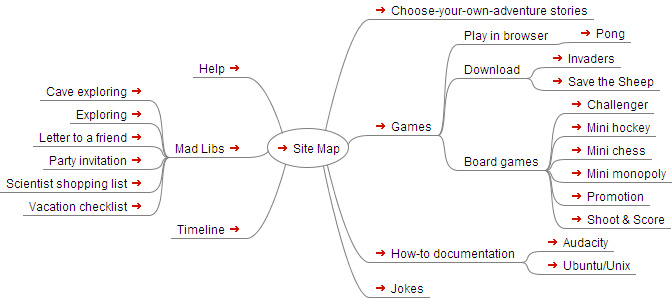
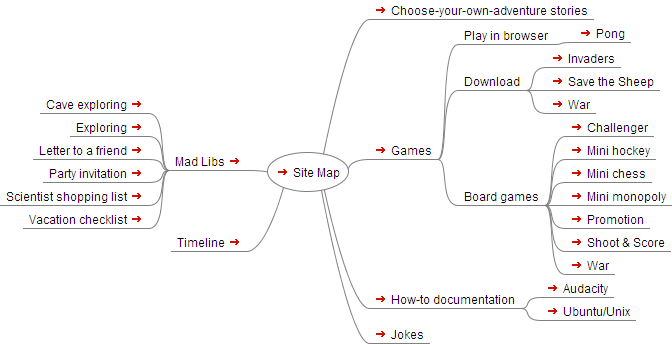
Updated the site map

diff --git a/map/map.html b/map/map.html
@@ -1,125 +1,43 @@
-<?xml version="1.0" encoding="UTF-8"?>
-<!DOCTYPE html>
-<html xmlns="http://www.w3.org/1999/xhtml">
-<meta content="text/html; charset=UTF-8" http-equiv="Content-Type" />
-<!--This file has been created with freemind2html.xsl-->
-<head>
-    <title>Site Map</title>
-    <link rel="stylesheet" href="../style-hacker.css">
-    <link rel="stylesheet" href="map.html_files//freemind2html.css" type="text/css" />
-    <meta content="FreeMind-XSL Stylesheet (see: http://freemind-xsl.dev.slash-me.net/ for details)" name="generator" />
-    <script src="map.html_files//freemind2html.js">
-    </script>
-    <script src="../translate.js"></script>
-    <script src="https://translate.google.com/translate_a/element.js?cb=googleTranslateElementInit"></script>
-</head>
+<?xml version="1.0" encoding="UTF-8"?><!DOCTYPE html PUBLIC "-//W3C//DTD XHTML 1.1//EN" "http://www.w3.org/TR/xhtml11/DTD/xhtml11.dtd">
+<html xmlns="http://www.w3.org/1999/xhtml"><meta content="text/html; charset=UTF-8" http-equiv="Content-Type" /><!--This file has been created with freemind2html.xsl--><head><title>Site Map</title><link rel="stylesheet" href="map.html_files//freemind2html.css" type="text/css" />
+<link rel="stylesheet" href="../style-hacker.css" type="text/css" />
+<meta content="FreeMind-XSL Stylesheet (see: http://freemind-xsl.dev.slash-me.net/ for details)" name="generator" />
+<script src="../translate.js"></script>
+<script src="https://translate.google.com/translate_a/element.js?cb=googleTranslateElementInit"></script>
+<script type="text/javascript" src="map.html_files//freemind2html.js">
+	</script><script type="text/javascript">
 
-<body>
-    <div class="tooltip">
-        <h1><a href="../index.htm">Site Map</a></h1>
-        <span class="tooltiptext">Click to return to the home page</span>
-    </div>
-    <p>To click a link in the site map, click the link on the image, then click the matching link in the tree below (usually it's at the top)</p>
-    <div style="width:96%;  padding:2%;  margin-bottom:10px;  border: 0px;  text-align:center;  vertical-align:center;"><img src="map.html_files//image.png" style="margin-bottom:10px; &#9;border: 0px; &#9;text-align:center; &#9;vertical-align:center;" alt="Imagemap" usemap="#fm_imagemap" /></div><map id="fm_imagemap" name="fm_imagemap"><area shape="rect" href="#FMID_709576777FM" alt="Site Map" title="Site Map" coords="267,128,349,168" /><area shape="rect" href="#FMID_1923632942FM" alt="Choose-your-own-adventure stories" title="Choose-your-own-adventure stories" coords="369,0,594,20" /><area shape="rect" href="#FMID_982641649FM" alt="Games" title="Games" coords="369,116,438,136" /><area shape="rect" href="#FMID_1088107480FM" alt="Play in browser" title="Play in browser" coords="458,25,554,45" /><area shape="rect" href="#FMID_1531076854FM" alt="Pong" title="Pong" coords="574,23,631,43" /><area shape="rect" href="#FMID_1806537273FM" alt="Download" title="Download" coords="458,59,526,79" /><area shape="rect" href="#FMID_816045599FM" alt="Invaders" title="Invaders" coords="546,48,621,68" /><area shape="rect" href="#FMID_282341165FM" alt="Save the Sheep" title="Save the Sheep" coords="546,71,660,91" /><area shape="rect" href="#FMID_299578328FM" alt="Board games" title="Board games" coords="458,151,545,171" /><area shape="rect" href="#FMID_811647075FM" alt="Challenger" title="Challenger" coords="565,94,654,114" /><area shape="rect" href="#FMID_1144614612FM" alt="Mini hockey" title="Mini hockey" coords="565,117,656,137" /><area shape="rect" href="#FMID_1428526160FM" alt="Mini chess" title="Mini chess" coords="565,140,652,160" /><area shape="rect" href="#FMID_304733964FM" alt="Mini monopoly" title="Mini monopoly" coords="565,163,672,183" /><area shape="rect" href="#FMID_646294776FM" alt="Promotion" title="Promotion" coords="565,186,650,206" /><area shape="rect" href="#FMID_561947588FM" alt="Shoot &amp; Score" title="Shoot &amp; Score" coords="565,209,671,229" /><area shape="rect" href="#FMID_1587511800FM" alt="Help" title="Help" coords="193,58,247,78" /><area shape="rect" href="#FMID_75258166FM" alt="How-to documentation" title="How-to documentation" coords="369,243,521,263" /><area shape="rect" href="#FMID_74909711FM" alt="Audacity" title="Audacity" coords="541,232,614,252" /><area shape="rect" href="#FMID_745300240FM" alt="Ubuntu/Unix" title="Ubuntu/Unix" coords="541,255,636,275" /><area shape="rect" href="#FMID_1195407703FM" alt="Mad Libs" title="Mad Libs" coords="169,138,247,158" /><area shape="rect" href="#FMID_811489545FM" alt="Cave exploring" title="Cave exploring" coords="40,81,149,101" /><area shape="rect" href="#FMID_1993410114FM" alt="Exploring" title="Exploring" coords="70,104,149,124" /><area shape="rect" href="#FMID_777216135FM" alt="Letter to a friend" title="Letter to a friend" coords="33,127,149,147" /><area shape="rect" href="#FMID_742344066FM" alt="Party invitation" title="Party invitation" coords="43,150,149,170" /><area shape="rect" href="#FMID_1593980568FM" alt="Scientist shopping list" title="Scientist shopping list" coords="0,173,149,193" /><area shape="rect" href="#FMID_1985541377FM" alt="Vacation checklist" title="Vacation checklist" coords="23,196,149,216" /><area shape="rect" href="#FMID_319941069FM" alt="Timeline" title="Timeline" coords="171,219,247,239" /><area shape="rect" href="#FMID_780050815FM" alt="Jokes" title="Jokes" coords="369,278,430,298" /></map>
-    <div class="node"><img src="map.html_files//hide.png" class="hideshow" alt="hide" onClick="toggle(&quot;N10007&quot;)" id="imgN10007" /><a id="FMID_709576777FM" />
-        <div class="nodecontent"><a href="../index.htm">Site Map</a> <a href="../index.htm"><img src="map.html_files//ilink.png" alt="User Link" style="border-width:0" /></a></div>
-        <div class="content" id="N10007">
-            <div class="node"><img src="map.html_files//leaf.png" class="hideshow" alt="leaf" /><a id="FMID_1587511800FM" />
-                <div class="nodecontent"><a href="../help/index.htm">Help</a> <a href="../help/index.htm"><img src="map.html_files//ilink.png" alt="User Link" style="border-width:0" /></a></div>
-            </div>
-            <div class="node"><img src="map.html_files//hide.png" class="hideshow" alt="hide" onClick="toggle(&quot;N10092&quot;)" id="imgN10092" /><a id="FMID_1195407703FM" />
-                <div class="nodecontent"><a href="../madlib/index.htm">Mad Libs</a> <a href="../madlib/index.htm"><img src="map.html_files//ilink.png" alt="User Link" style="border-width:0" /></a></div>
-                <div class="content" id="N10092">
-                    <div class="node"><img src="map.html_files//leaf.png" class="hideshow" alt="leaf" /><a id="FMID_811489545FM" />
-                        <div class="nodecontent"><a href="../madlib/madlib-stories/cave-story.htm">Cave exploring</a> <a href="../madlib/madlib-stories/cave-story.htm"><img src="map.html_files//ilink.png" alt="User Link" style="border-width:0" /></a></div>
-                    </div>
-                    <div class="node"><img src="map.html_files//leaf.png" class="hideshow" alt="leaf" /><a id="FMID_1993410114FM" />
-                        <div class="nodecontent"><a href="../madlib/madlib-stories/exploring.htm">Exploring</a> <a href="../madlib/madlib-stories/exploring.htm"><img src="map.html_files//ilink.png" alt="User Link" style="border-width:0" /></a></div>
-                    </div>
-                    <div class="node"><img src="map.html_files//leaf.png" class="hideshow" alt="leaf" /><a id="FMID_777216135FM" />
-                        <div class="nodecontent"><a href="../madlib/madlib-stories/letter-to-a-friend.htm">Letter to a friend</a> <a href="../madlib/madlib-stories/letter-to-a-friend.htm"><img src="map.html_files//ilink.png" alt="User Link" style="border-width:0" /></a></div>
-                    </div>
-                    <div class="node"><img src="map.html_files//leaf.png" class="hideshow" alt="leaf" /><a id="FMID_742344066FM" />
-                        <div class="nodecontent"><a href="../madlib/madlib-stories/party.htm">Party invitation</a> <a href="../madlib/madlib-stories/party.htm"><img src="map.html_files//ilink.png" alt="User Link" style="border-width:0" /></a></div>
-                    </div>
-                    <div class="node"><img src="map.html_files//leaf.png" class="hideshow" alt="leaf" /><a id="FMID_1593980568FM" />
-                        <div class="nodecontent"><a href="../madlib/madlib-stories/Scientist-Shopping-List.htm">Scientist shopping list</a> <a href="../madlib/madlib-stories/Scientist-Shopping-List.htm"><img src="map.html_files//ilink.png" alt="User Link" style="border-width:0" /></a></div>
-                    </div>
-                    <div class="node"><img src="map.html_files//leaf.png" class="hideshow" alt="leaf" /><a id="FMID_1985541377FM" />
-                        <div class="nodecontent"><a href="../madlib/madlib-stories/to-do-before-vacation.htm">Vacation checklist</a> <a href="../madlib/madlib-stories/to-do-before-vacation.htm"><img src="map.html_files//ilink.png" alt="User Link" style="border-width:0" /></a></div>
-                    </div>
-                </div>
-            </div>
-            <div class="node"><img src="map.html_files//leaf.png" class="hideshow" alt="leaf" /><a id="FMID_319941069FM" />
-                <div class="nodecontent"><a href="../timeline/index.htm">Timeline</a> <a href="../timeline/index.htm"><img src="map.html_files//ilink.png" alt="User Link" style="border-width:0" /></a></div>
-            </div>
-            <div class="node"><img src="map.html_files//leaf.png" class="hideshow" alt="leaf" /><a id="FMID_1923632942FM" />
-                <div class="nodecontent"><a href="../adventure/index.htm">Choose-your-own-adventure stories</a> <a href="../adventure/index.htm"><img src="map.html_files//ilink.png" alt="User Link" style="border-width:0" /></a></div>
-            </div>
-            <div class="node"><img src="map.html_files//hide.png" class="hideshow" alt="hide" onClick="toggle(&quot;N10016&quot;)" id="imgN10016" /><a id="FMID_982641649FM" />
-                <div class="nodecontent"><a href="../games/index.htm">Games</a> <a href="../games/index.htm"><img src="map.html_files//ilink.png" alt="User Link" style="border-width:0" /></a></div>
-                <div class="content" id="N10016">
-                    <div class="node"><img src="map.html_files//hide.png" class="hideshow" alt="hide" onClick="toggle(&quot;N1001E&quot;)" id="imgN1001E" /><a id="FMID_1088107480FM" />
-                        <div class="nodecontent">Play in browser</div>
-                        <div class="content" id="N1001E">
-                            <div class="node"><img src="map.html_files//leaf.png" class="hideshow" alt="leaf" /><a id="FMID_1531076854FM" />
-                                <div class="nodecontent"><a href="../games/pong/index.htm">Pong</a> <a href="../games/pong/index.htm"><img src="map.html_files//ilink.png" alt="User Link" style="border-width:0" /></a></div>
-                            </div>
-                        </div>
-                    </div>
-                    <div class="node"><img src="map.html_files//hide.png" class="hideshow" alt="hide" onClick="toggle(&quot;N1002C&quot;)" id="imgN1002C" /><a id="FMID_1806537273FM" />
-                        <div class="nodecontent">Download</div>
-                        <div class="content" id="N1002C">
-                            <div class="node"><img src="map.html_files//leaf.png" class="hideshow" alt="leaf" /><a id="FMID_816045599FM" />
-                                <div class="nodecontent"><a href="../games/invaders/index.htm">Invaders</a> <a href="../games/invaders/index.htm"><img src="map.html_files//ilink.png" alt="User Link" style="border-width:0" /></a></div>
-                            </div>
-                            <div class="node"><img src="map.html_files//leaf.png" class="hideshow" alt="leaf" /><a id="FMID_282341165FM" />
-                                <div class="nodecontent"><a href="../games/save-the-sheep/index.htm">Save the Sheep</a> <a href="../games/save-the-sheep/index.htm"><img src="map.html_files//ilink.png" alt="User Link" style="border-width:0" /></a></div>
-                            </div>
-                        </div>
-                    </div>
-                    <div class="node"><img src="map.html_files//hide.png" class="hideshow" alt="hide" onClick="toggle(&quot;N10041&quot;)" id="imgN10041" /><a id="FMID_299578328FM" />
-                        <div class="nodecontent">Board games</div>
-                        <div class="content" id="N10041">
-                            <div class="node"><img src="map.html_files//leaf.png" class="hideshow" alt="leaf" /><a id="FMID_811647075FM" />
-                                <div class="nodecontent"><a href="../games/challenger/index.htm">Challenger</a> <a href="../games/challenger/index.htm"><img src="map.html_files//ilink.png" alt="User Link" style="border-width:0" /></a></div>
-                            </div>
-                            <div class="node"><img src="map.html_files//leaf.png" class="hideshow" alt="leaf" /><a id="FMID_1144614612FM" />
-                                <div class="nodecontent"><a href="../games/hockey/index.htm">Mini hockey</a> <a href="../games/hockey/index.htm"><img src="map.html_files//ilink.png" alt="User Link" style="border-width:0" /></a></div>
-                            </div>
-                            <div class="node"><img src="map.html_files//leaf.png" class="hideshow" alt="leaf" /><a id="FMID_1428526160FM" />
-                                <div class="nodecontent"><a href="../games/mini-chess/index.htm">Mini chess</a> <a href="../games/mini-chess/index.htm"><img src="map.html_files//ilink.png" alt="User Link" style="border-width:0" /></a></div>
-                            </div>
-                            <div class="node"><img src="map.html_files//leaf.png" class="hideshow" alt="leaf" /><a id="FMID_304733964FM" />
-                                <div class="nodecontent"><a href="../games/more/monopoly.jpg">Mini monopoly</a> <a href="../games/more/monopoly.jpg"><img src="map.html_files//ilink.png" alt="User Link" style="border-width:0" /></a></div>
-                            </div>
-                            <div class="node"><img src="map.html_files//leaf.png" class="hideshow" alt="leaf" /><a id="FMID_646294776FM" />
-                                <div class="nodecontent"><a href="../games/promotion/index.htm">Promotion</a> <a href="../games/promotion/index.htm"><img src="map.html_files//ilink.png" alt="User Link" style="border-width:0" /></a></div>
-                            </div>
-                            <div class="node"><img src="map.html_files//leaf.png" class="hideshow" alt="leaf" /><a id="FMID_561947588FM" />
-                                <div class="nodecontent"><a href="../games/shoot&amp;score/index.htm">Shoot &amp; Score</a> <a href="../games/shoot&amp;score/index.htm"><img src="map.html_files//ilink.png" alt="User Link" style="border-width:0" /></a></div>
-                            </div>
-                        </div>
-                    </div>
-                </div>
-            </div>
-            <div class="node"><img src="map.html_files//hide.png" class="hideshow" alt="hide" onClick="toggle(&quot;N1007B&quot;)" id="imgN1007B" /><a id="FMID_75258166FM" />
-                <div class="nodecontent"><a href="../how2/index.htm">How-to documentation</a> <a href="../how2/index.htm"><img src="map.html_files//ilink.png" alt="User Link" style="border-width:0" /></a></div>
-                <div class="content" id="N1007B">
-                    <div class="node"><img src="map.html_files//leaf.png" class="hideshow" alt="leaf" /><a id="FMID_74909711FM" />
-                        <div class="nodecontent"><a href="../how2/audacity.pdf">Audacity</a> <a href="../how2/audacity.pdf"><img src="map.html_files//ilink.png" alt="User Link" style="border-width:0" /></a></div>
-                    </div>
-                    <div class="node"><img src="map.html_files//leaf.png" class="hideshow" alt="leaf" /><a id="FMID_745300240FM" />
-                        <div class="nodecontent"><a href="../how2/ubuntu.pdf">Ubuntu/Unix</a> <a href="../how2/ubuntu.pdf"><img src="map.html_files//ilink.png" alt="User Link" style="border-width:0" /></a></div>
-                    </div>
-                </div>
-            </div>
-            <div class="node"><img src="map.html_files//leaf.png" class="hideshow" alt="leaf" /><a id="FMID_780050815FM" />
-                <div class="nodecontent"><a href="../jokes/index.htm">Jokes</a> <a href="../jokes/index.htm"><img src="map.html_files//ilink.png" alt="User Link" style="border-width:0" /></a></div>
-            </div>
+               function toggle(id)
+               {
+                   div_el = document.getElementById(id);
+                   img_el = document.getElementById('img'+id);
+                   if (div_el.style.display != 'none')
+                   {
+
+
+                      div_el.style.display='none';
+                      img_el.src = 'map.html_files//show.png';
+
+                   }
+                   else
+                   {
+
+                      div_el.style.display='block';
+                      img_el.src = 'map.html_files//hide.png';
+
+                   };
+               };
+
+          </script></head><body>
+        <div style="float:right">
+        <div id="google_translate_element"></div>
+        <a class="btn" href="../index.htm">&lArr; Home</a>
         </div>
-    </div>
-    <p>This site map doesn't show all pages (more will be added soon)</p>
-</body>
+          <div class="tooltip">
+            <h1><a href="../index.htm">Site Map</a></h1>
+            <span class="tooltiptext">Click to return to the home page</span>
+          </div>
+    <p>To click a link in the site map, click the link on the image, then click the matching link in the tree below (usually it's at the top)</p><div style="width:96%;  padding:2%;  margin-bottom:10px;  border: 0px;  text-align:center;  vertical-align:center;"><img src="map.html_files//image.png" style="margin-bottom:10px; &#9;border: 0px; &#9;text-align:center; &#9;vertical-align:center;" alt="Imagemap" usemap="#fm_imagemap" /></div><map id="fm_imagemap" name="fm_imagemap"><area shape="rect" href="#FMID_709576777FM" alt="Site Map" title="Site Map" coords="267,152,349,192" /><area shape="rect" href="#FMID_1923632942FM" alt="Choose-your-own-adventure stories" title="Choose-your-own-adventure stories" coords="369,0,594,20" /><area shape="rect" href="#FMID_982641649FM" alt="Games" title="Games" coords="369,140,438,160" /><area shape="rect" href="#FMID_1088107480FM" alt="Play in browser" title="Play in browser" coords="458,25,554,45" /><area shape="rect" href="#FMID_1531076854FM" alt="Pong" title="Pong" coords="574,23,631,43" /><area shape="rect" href="#FMID_1806537273FM" alt="Download" title="Download" coords="458,71,526,91" /><area shape="rect" href="#FMID_816045599FM" alt="Invaders" title="Invaders" coords="546,48,621,68" /><area shape="rect" href="#FMID_282341165FM" alt="Save the Sheep" title="Save the Sheep" coords="546,71,660,91" /><area shape="rect" href="#FMID_1362993787FM" alt="War" title="War" coords="546,94,596,114" /><area shape="rect" href="#FMID_299578328FM" alt="Board games" title="Board games" coords="458,186,545,206" /><area shape="rect" href="#FMID_811647075FM" alt="Challenger" title="Challenger" coords="565,117,654,137" /><area shape="rect" href="#FMID_1144614612FM" alt="Mini hockey" title="Mini hockey" coords="565,140,656,160" /><area shape="rect" href="#FMID_1428526160FM" alt="Mini chess" title="Mini chess" coords="565,163,652,183" /><area shape="rect" href="#FMID_304733964FM" alt="Mini monopoly" title="Mini monopoly" coords="565,186,672,206" /><area shape="rect" href="#FMID_646294776FM" alt="Promotion" title="Promotion" coords="565,209,650,229" /><area shape="rect" href="#FMID_561947588FM" alt="Shoot &amp; Score" title="Shoot &amp; Score" coords="565,232,671,252" /><area shape="rect" href="#FMID_1527163150FM" alt="War" title="War" coords="565,255,615,275" /><area shape="rect" href="#FMID_75258166FM" alt="How-to documentation" title="How-to documentation" coords="369,289,521,309" /><area shape="rect" href="#FMID_74909711FM" alt="Audacity" title="Audacity" coords="541,278,614,298" /><area shape="rect" href="#FMID_745300240FM" alt="Ubuntu/Unix" title="Ubuntu/Unix" coords="541,301,636,321" /><area shape="rect" href="#FMID_1195407703FM" alt="Mad Libs" title="Mad Libs" coords="169,151,247,171" /><area shape="rect" href="#FMID_811489545FM" alt="Cave exploring" title="Cave exploring" coords="40,94,149,114" /><area shape="rect" href="#FMID_1993410114FM" alt="Exploring" title="Exploring" coords="70,117,149,137" /><area shape="rect" href="#FMID_777216135FM" alt="Letter to a friend" title="Letter to a friend" coords="33,140,149,160" /><area shape="rect" href="#FMID_742344066FM" alt="Party invitation" title="Party invitation" coords="43,163,149,183" /><area shape="rect" href="#FMID_1593980568FM" alt="Scientist shopping list" title="Scientist shopping list" coords="0,186,149,206" /><area shape="rect" href="#FMID_1985541377FM" alt="Vacation checklist" title="Vacation checklist" coords="23,209,149,229" /><area shape="rect" href="#FMID_319941069FM" alt="Timeline" title="Timeline" coords="171,232,247,252" /><area shape="rect" href="#FMID_780050815FM" alt="Jokes" title="Jokes" coords="369,324,430,344" /></map>
 
-</html>
+<div class="node"><img src="map.html_files//hide.png" class="hideshow" alt="hide" onClick="toggle(&quot;N10007&quot;)" id="imgN10007" /><a id="FMID_709576777FM" /><div class="nodecontent"><a href="../index.htm">Site Map</a> <a href="../index.htm"><img src="map.html_files//ilink.png" alt="User Link" style="border-width:0" /></a></div><div class="content" id="N10007"><div class="node"><img src="map.html_files//hide.png" class="hideshow" alt="hide" onClick="toggle(&quot;N10098&quot;)" id="imgN10098" /><a id="FMID_1195407703FM" /><div class="nodecontent"><a href="../madlib/index.htm">Mad Libs</a> <a href="../madlib/index.htm"><img src="map.html_files//ilink.png" alt="User Link" style="border-width:0" /></a></div><div class="content" id="N10098"><div class="node"><img src="map.html_files//leaf.png" class="hideshow" alt="leaf" /><a id="FMID_811489545FM" /><div class="nodecontent"><a href="../madlib/madlib-stories/cave-story.htm">Cave exploring</a> <a href="../madlib/madlib-stories/cave-story.htm"><img src="map.html_files//ilink.png" alt="User Link" style="border-width:0" /></a></div></div><div class="node"><img src="map.html_files//leaf.png" class="hideshow" alt="leaf" /><a id="FMID_1993410114FM" /><div class="nodecontent"><a href="../madlib/madlib-stories/exploring.htm">Exploring</a> <a href="../madlib/madlib-stories/exploring.htm"><img src="map.html_files//ilink.png" alt="User Link" style="border-width:0" /></a></div></div><div class="node"><img src="map.html_files//leaf.png" class="hideshow" alt="leaf" /><a id="FMID_777216135FM" /><div class="nodecontent"><a href="../madlib/madlib-stories/letter-to-a-friend.htm">Letter to a friend</a> <a href="../madlib/madlib-stories/letter-to-a-friend.htm"><img src="map.html_files//ilink.png" alt="User Link" style="border-width:0" /></a></div></div><div class="node"><img src="map.html_files//leaf.png" class="hideshow" alt="leaf" /><a id="FMID_742344066FM" /><div class="nodecontent"><a href="../madlib/madlib-stories/party.htm">Party invitation</a> <a href="../madlib/madlib-stories/party.htm"><img src="map.html_files//ilink.png" alt="User Link" style="border-width:0" /></a></div></div><div class="node"><img src="map.html_files//leaf.png" class="hideshow" alt="leaf" /><a id="FMID_1593980568FM" /><div class="nodecontent"><a href="../madlib/madlib-stories/Scientist-Shopping-List.htm">Scientist shopping list</a> <a href="../madlib/madlib-stories/Scientist-Shopping-List.htm"><img src="map.html_files//ilink.png" alt="User Link" style="border-width:0" /></a></div></div><div class="node"><img src="map.html_files//leaf.png" class="hideshow" alt="leaf" /><a id="FMID_1985541377FM" /><div class="nodecontent"><a href="../madlib/madlib-stories/to-do-before-vacation.htm">Vacation checklist</a> <a href="../madlib/madlib-stories/to-do-before-vacation.htm"><img src="map.html_files//ilink.png" alt="User Link" style="border-width:0" /></a></div></div></div></div><div class="node"><img src="map.html_files//leaf.png" class="hideshow" alt="leaf" /><a id="FMID_319941069FM" /><div class="nodecontent"><a href="../timeline/index.htm">Timeline</a> <a href="../timeline/index.htm"><img src="map.html_files//ilink.png" alt="User Link" style="border-width:0" /></a></div></div><div class="node"><img src="map.html_files//leaf.png" class="hideshow" alt="leaf" /><a id="FMID_1923632942FM" /><div class="nodecontent"><a href="../adventure/index.htm">Choose-your-own-adventure stories</a> <a href="../adventure/index.htm"><img src="map.html_files//ilink.png" alt="User Link" style="border-width:0" /></a></div></div><div class="node"><img src="map.html_files//hide.png" class="hideshow" alt="hide" onClick="toggle(&quot;N10016&quot;)" id="imgN10016" /><a id="FMID_982641649FM" /><div class="nodecontent"><a href="../games/index.htm">Games</a> <a href="../games/index.htm"><img src="map.html_files//ilink.png" alt="User Link" style="border-width:0" /></a></div><div class="content" id="N10016"><div class="node"><img src="map.html_files//hide.png" class="hideshow" alt="hide" onClick="toggle(&quot;N1001E&quot;)" id="imgN1001E" /><a id="FMID_1088107480FM" /><div class="nodecontent">Play in browser</div><div class="content" id="N1001E"><div class="node"><img src="map.html_files//leaf.png" class="hideshow" alt="leaf" /><a id="FMID_1531076854FM" /><div class="nodecontent"><a href="../games/pong/index.htm">Pong</a> <a href="../games/pong/index.htm"><img src="map.html_files//ilink.png" alt="User Link" style="border-width:0" /></a></div></div></div></div><div class="node"><img src="map.html_files//hide.png" class="hideshow" alt="hide" onClick="toggle(&quot;N1002C&quot;)" id="imgN1002C" /><a id="FMID_1806537273FM" /><div class="nodecontent">Download</div><div class="content" id="N1002C"><div class="node"><img src="map.html_files//leaf.png" class="hideshow" alt="leaf" /><a id="FMID_816045599FM" /><div class="nodecontent"><a href="../games/invaders/index.htm">Invaders</a> <a href="../games/invaders/index.htm"><img src="map.html_files//ilink.png" alt="User Link" style="border-width:0" /></a></div></div><div class="node"><img src="map.html_files//leaf.png" class="hideshow" alt="leaf" /><a id="FMID_282341165FM" /><div class="nodecontent"><a href="../games/save-the-sheep/index.htm">Save the Sheep</a> <a href="../games/save-the-sheep/index.htm"><img src="map.html_files//ilink.png" alt="User Link" style="border-width:0" /></a></div></div><div class="node"><img src="map.html_files//leaf.png" class="hideshow" alt="leaf" /><a id="FMID_1362993787FM" /><div class="nodecontent"><a href="../games/war/index.htm">War</a> <a href="../games/war/index.htm"><img src="map.html_files//ilink.png" alt="User Link" style="border-width:0" /></a></div></div></div></div><div class="node"><img src="map.html_files//hide.png" class="hideshow" alt="hide" onClick="toggle(&quot;N10048&quot;)" id="imgN10048" /><a id="FMID_299578328FM" /><div class="nodecontent">Board games</div><div class="content" id="N10048"><div class="node"><img src="map.html_files//leaf.png" class="hideshow" alt="leaf" /><a id="FMID_811647075FM" /><div class="nodecontent"><a href="../games/challenger/index.htm">Challenger</a> <a href="../games/challenger/index.htm"><img src="map.html_files//ilink.png" alt="User Link" style="border-width:0" /></a></div></div><div class="node"><img src="map.html_files//leaf.png" class="hideshow" alt="leaf" /><a id="FMID_1144614612FM" /><div class="nodecontent"><a href="../games/hockey/index.htm">Mini hockey</a> <a href="../games/hockey/index.htm"><img src="map.html_files//ilink.png" alt="User Link" style="border-width:0" /></a></div></div><div class="node"><img src="map.html_files//leaf.png" class="hideshow" alt="leaf" /><a id="FMID_1428526160FM" /><div class="nodecontent"><a href="../games/mini-chess/index.htm">Mini chess</a> <a href="../games/mini-chess/index.htm"><img src="map.html_files//ilink.png" alt="User Link" style="border-width:0" /></a></div></div><div class="node"><img src="map.html_files//leaf.png" class="hideshow" alt="leaf" /><a id="FMID_304733964FM" /><div class="nodecontent"><a href="../games/more/monopoly.jpg">Mini monopoly</a> <a href="../games/more/monopoly.jpg"><img src="map.html_files//ilink.png" alt="User Link" style="border-width:0" /></a></div></div><div class="node"><img src="map.html_files//leaf.png" class="hideshow" alt="leaf" /><a id="FMID_646294776FM" /><div class="nodecontent"><a href="../games/promotion/index.htm">Promotion</a> <a href="../games/promotion/index.htm"><img src="map.html_files//ilink.png" alt="User Link" style="border-width:0" /></a></div></div><div class="node"><img src="map.html_files//leaf.png" class="hideshow" alt="leaf" /><a id="FMID_561947588FM" /><div class="nodecontent"><a href="../games/shoot&amp;score/index.htm">Shoot &amp; Score</a> <a href="../games/shoot&amp;score/index.htm"><img src="map.html_files//ilink.png" alt="User Link" style="border-width:0" /></a></div></div><div class="node"><img src="map.html_files//leaf.png" class="hideshow" alt="leaf" /><a id="FMID_1527163150FM" /><div class="nodecontent"><a href="../games/war/index.htm#instructions">War</a> <a href="../games/war/index.htm#instructions"><img src="map.html_files//ilink.png" alt="User Link" style="border-width:0" /></a></div></div></div></div></div></div><div class="node"><img src="map.html_files//hide.png" class="hideshow" alt="hide" onClick="toggle(&quot;N10081&quot;)" id="imgN10081" /><a id="FMID_75258166FM" /><div class="nodecontent"><a href="../how2/index.htm">How-to documentation</a> <a href="../how2/index.htm"><img src="map.html_files//ilink.png" alt="User Link" style="border-width:0" /></a></div><div class="content" id="N10081"><div class="node"><img src="map.html_files//leaf.png" class="hideshow" alt="leaf" /><a id="FMID_74909711FM" /><div class="nodecontent"><a href="../how2/audacity.pdf">Audacity</a> <a href="../how2/audacity.pdf"><img src="map.html_files//ilink.png" alt="User Link" style="border-width:0" /></a></div></div><div class="node"><img src="map.html_files//leaf.png" class="hideshow" alt="leaf" /><a id="FMID_745300240FM" /><div class="nodecontent"><a href="../how2/ubuntu.pdf">Ubuntu/Unix</a> <a href="../how2/ubuntu.pdf"><img src="map.html_files//ilink.png" alt="User Link" style="border-width:0" /></a></div></div></div></div><div class="node"><img src="map.html_files//leaf.png" class="hideshow" alt="leaf" /><a id="FMID_780050815FM" /><div class="nodecontent"><a href="../jokes/index.htm">Jokes</a> <a href="../jokes/index.htm"><img src="map.html_files//ilink.png" alt="User Link" style="border-width:0" /></a></div></div></div></div>
+</body></html>

diff --git a/index.htm b/index.htm
@@ -100,6 +100,7 @@
                 <td>Kairos</td>
                 <td>90.9 MHz</td>
                 <td>Worship music in Spanish, and other styles of music in English</td>
+                <td></td>
             </tr>
         </table>
         <a class="btn" accesskey="s" target="_blank" href="https://goo.gl/forms/jREP45NHrQqcjpHk1">Send feedback</a>

diff --git a/games/war/index.htm b/games/war/index.htm
@@ -22,7 +22,7 @@
         </div>
         <h2 id="instructions">How to Play</h2>
         <h3>Setup</h3>
-        <table>
+        <table style="width: 25%">
             <tr>
                 <td>Players</td>
                 <td>2+</td>
